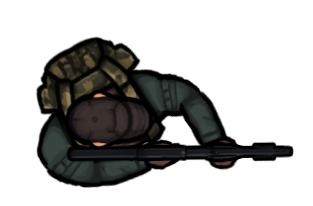
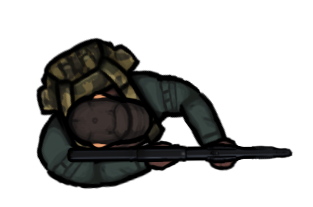
add player sprites

diff --git a/js/Player.js b/js/Player.js
@@ -23,7 +23,8 @@ class Player {
 		//this.coldBar = new ColdBar(COLD_BAR_COLOR);
 		this.enduranceBar = new EnduranceBar(ENDURANCE_BAR_COLOR);
 
-		this.sprites = playerSprites;
+		this.playerSprites = playerSprites;
+		this.currentSprite = this.playerSprites[0];
 	}
 
 	update(map) {
@@ -47,7 +48,7 @@ class Player {
 		ellipse(0, -35, this.rHand, this.rHand); //left hand
 		ellipse(0, 35, this.rHand, this.rHand);
 		rotate(-0.1);
-		image(this.sprites[0], 0, 0, 115, 115);
+		image(this.currentSprite, 0, 0, 115, 115);
 		//ellipse(0, 0, this.r, this.r); //body
 		 //right hand
 		
@@ -187,6 +188,23 @@ class Player {
 
 	putThingInInventory(thing) {
 		this.inventory.pushItem(thing);
+	}
+
+	changePlayerSkin(weaponName) {
+		switch(weaponName) {
+			case 'glock': 
+				this.currentSprite = this.playerSprites[0];
+				break;
+			case 'ak47':
+				this.currentSprite = this.playerSprites[1];
+				break;
+			case 'm16': 
+				this.currentSprite = this.playerSprites[2];
+				break;
+			case 'awp':
+				this.currentSprite = this.playerSprites[3];
+				break;
+		}
 	}
 
 }

diff --git a/js/Game.js b/js/Game.js
@@ -26,10 +26,14 @@ function preload() {
     sounds.pistol = loadSound('../audio/gun_40_smith_wesson.wav');
     sounds.pistolReload = loadSound('../audio/gun_reload.mp3');
     sounds.music = {};
+    
     //sounds.music.track1 = loadSound('../audio/Resident_Evil_movie_soundtrack_2008.mp3');
     //sounds.music.track2 = loadSound('../audio/Resident_Evil_Corp_Umbrella.mp3');
 
-    playerSprites[0] = loadImage('../img/player/survivor-pistol.png');
+    playerSprites[0] = loadImage('../img/player/survivor-glock.png');
+    playerSprites[1] = loadImage('../img/player/survivor-ak47.png');
+    playerSprites[2] = loadImage('../img/player/survivor-m16.png');
+    playerSprites[3] = loadImage('../img/player/survivor-awp.png');
 }
 
 function setup() {
